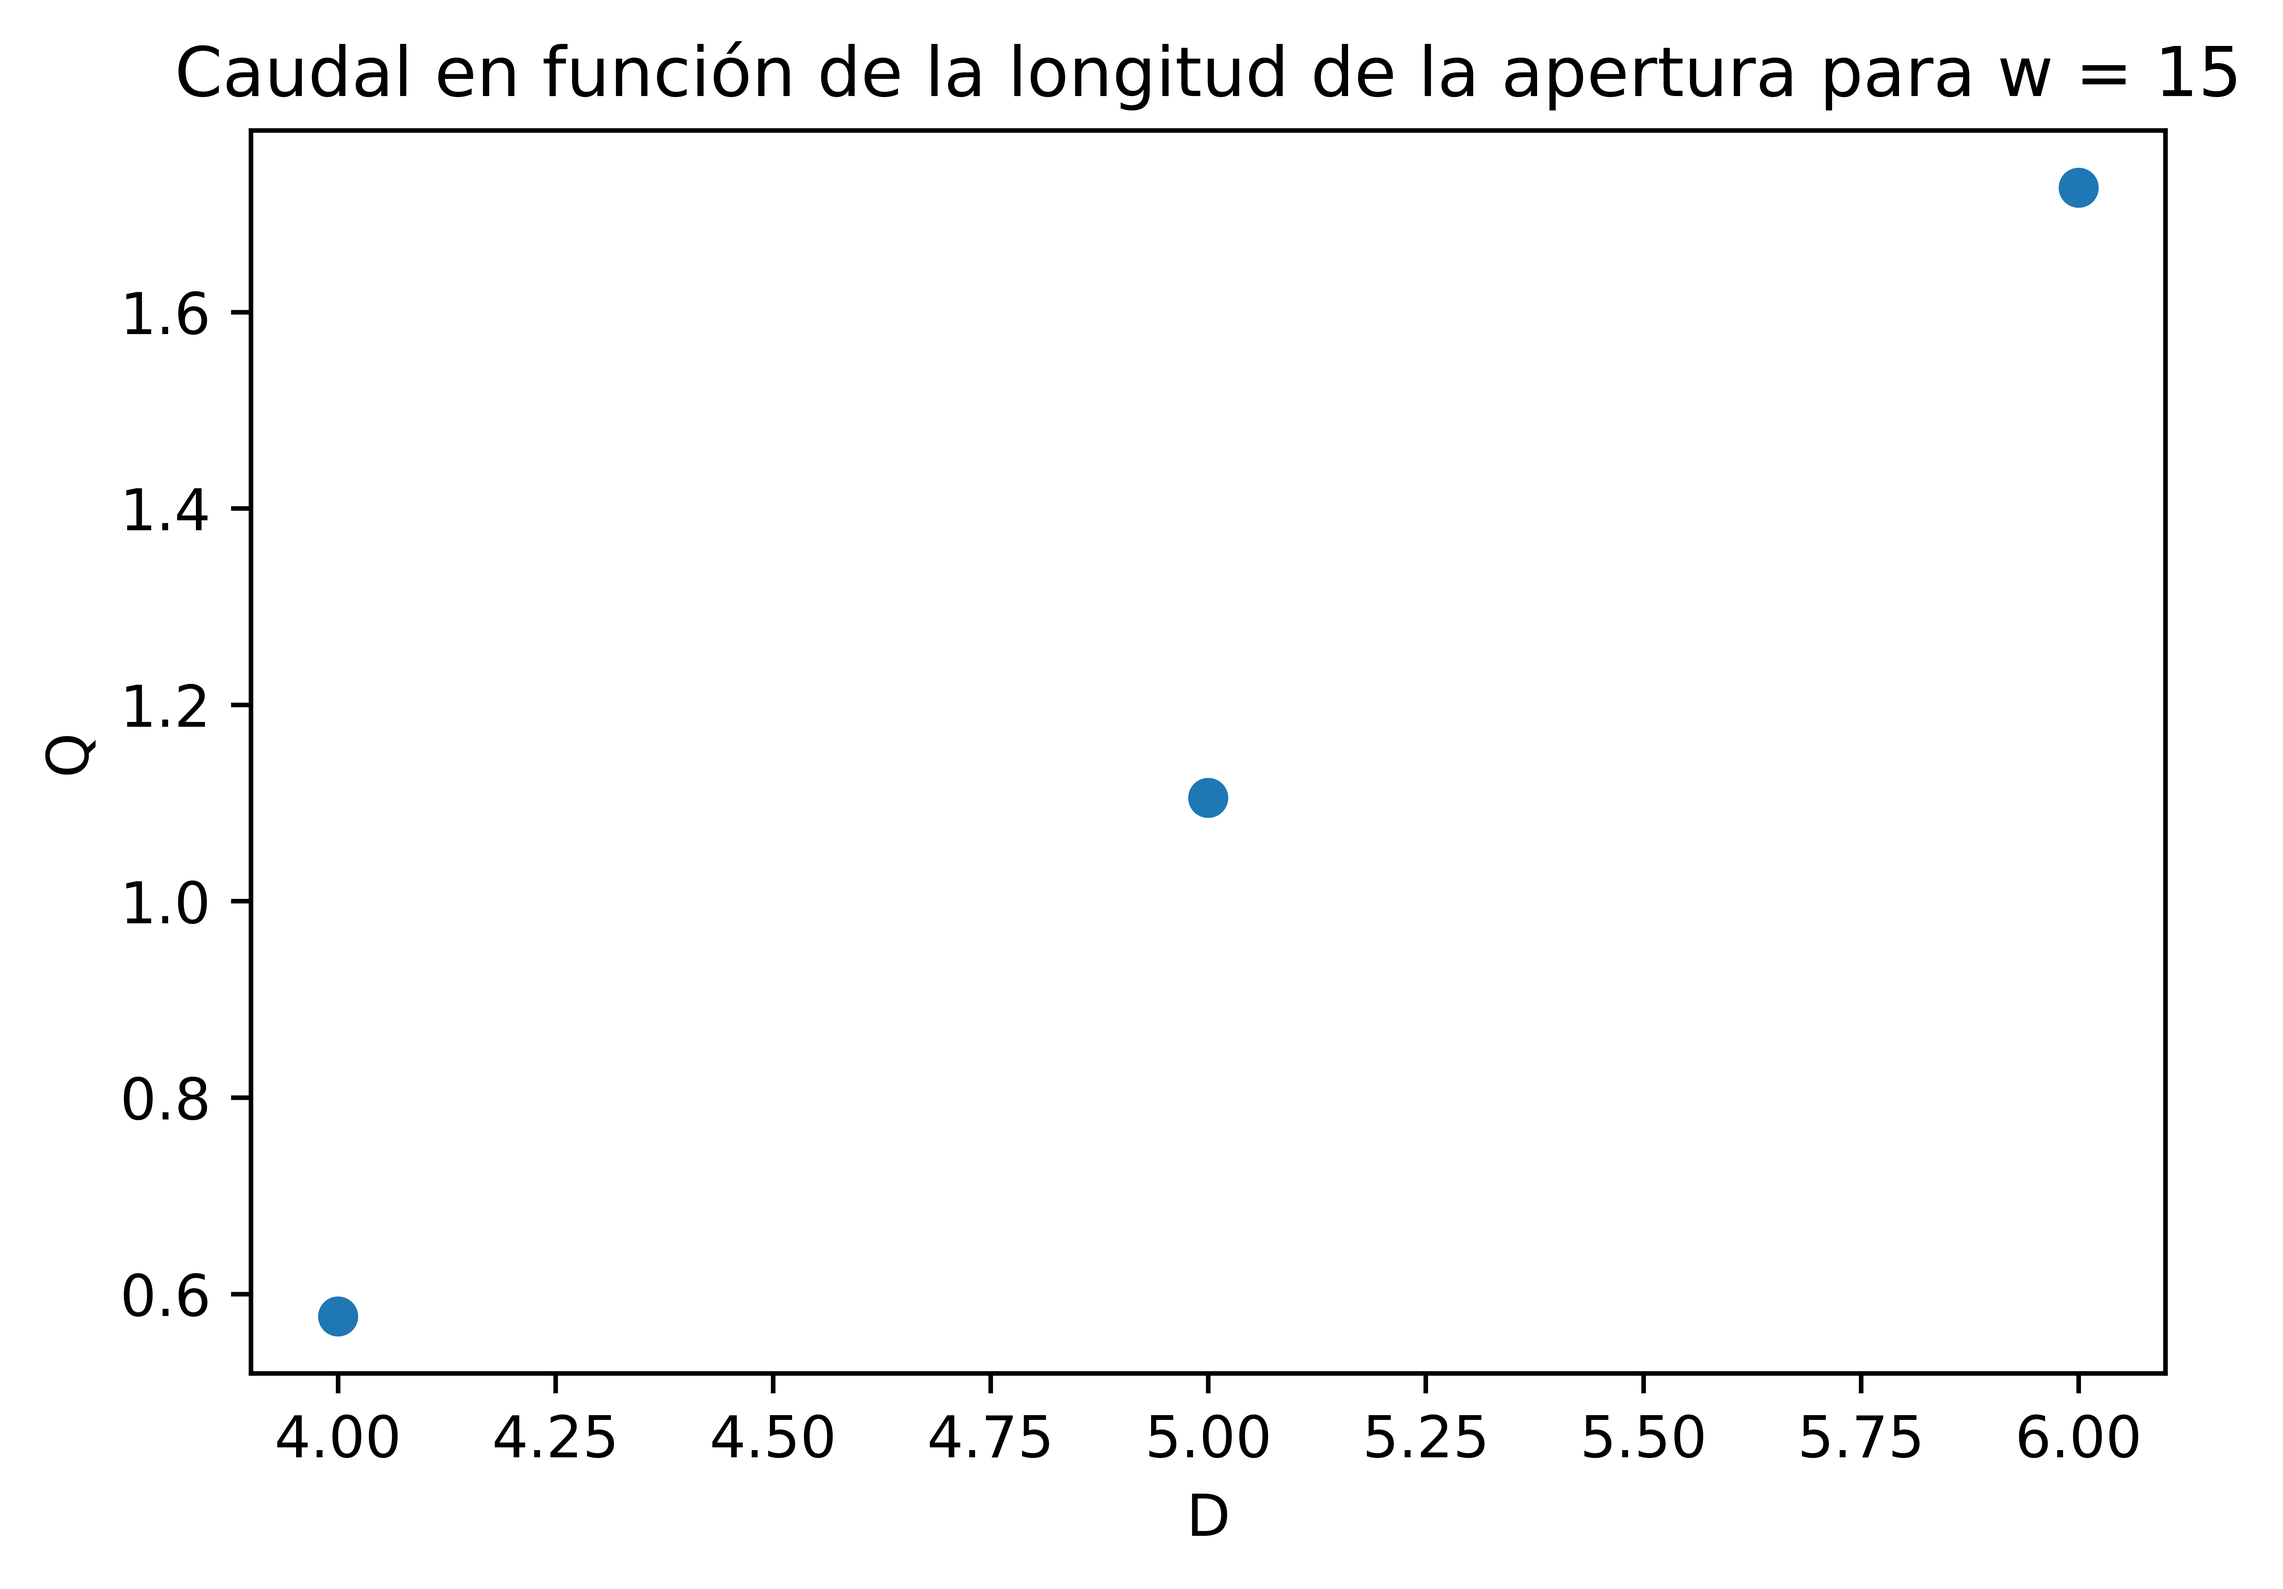
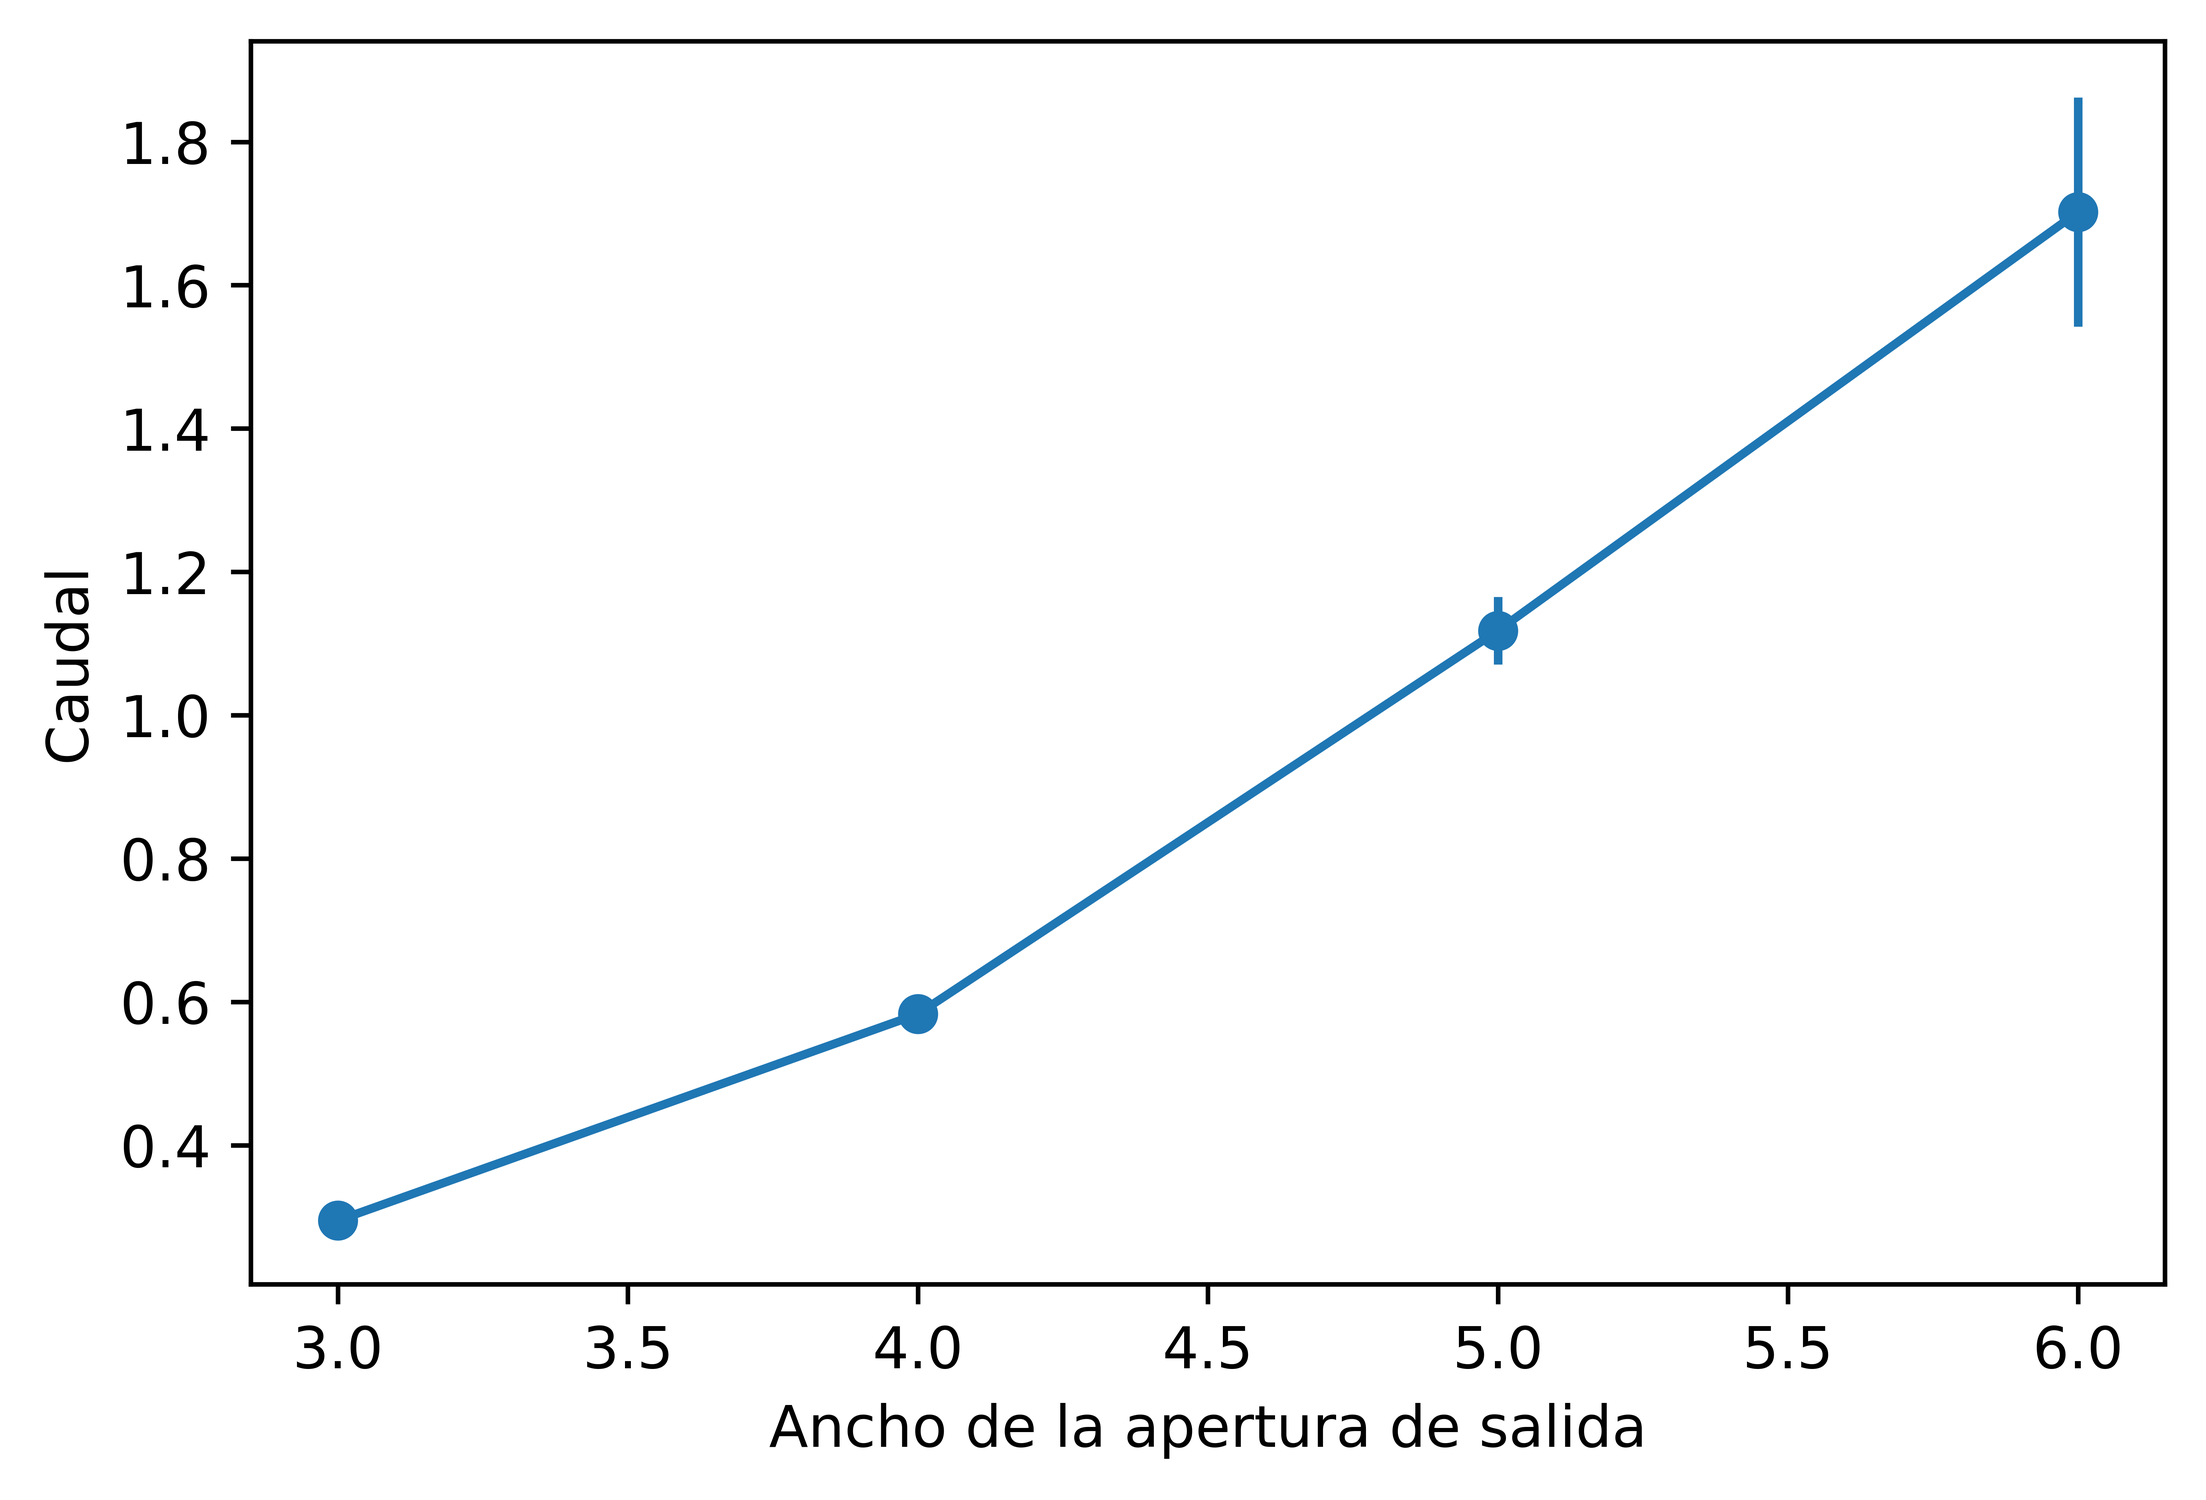
punto b

diff --git a/TP5/plotters/plotters.py b/TP5/plotters/plotters.py
@@ -132,7 +132,7 @@ def plot_exiting_particles_vs_t(plt, timestamps, t_est, color, label, perform_re
         Q, errs = plot_regression(timestamps, accumulated_values, t_est, color)
 
         return Q, errs
-    
+
     return None
     """
     LO CAMBIE POR REGRESION
@@ -192,7 +192,7 @@ def plot_q_vs_w(q: list[float], q_errors: list[float], w: list[int], save_to: st
 
 
 # q = [...], d = [4, 5, 6]
-def plot_q_vs_d(q: list[float], q_errors: list[float], D: list[int], w: int, save_to: str):
+def plot_q_vs_d(q: list[float], q_errors: list[float], D: list[int], w: int, save_to: str, join_points: bool = False):
     # TODO: unhardcode
     #D = [4, 5, 6]
     #q = [20, 18, 16]
@@ -205,11 +205,15 @@ def plot_q_vs_d(q: list[float], q_errors: list[float], D: list[int], w: int, sav
     # plt.legend()
 
     # TODO: quitar si vamos a hacer todos los puntos de distintos colores
-    plt.errorbar(D, q, yerr=q_errors, fmt='o')
+    #plt.errorbar(D, q, yerr=q_errors, fmt='o')
+    if join_points:
+        plt.errorbar(D, q, yerr=q_errors, fmt='o', linestyle="-")
+    else:
+        plt.errorbar(D, q, yerr=q_errors, fmt='o')
 
-    plt.xlabel('D')
-    plt.ylabel('Q')
-    plt.title('Caudal en función de la longitud de la apertura para w = ' + str(w))
+    plt.xlabel('Ancho de la apertura de salida')
+    plt.ylabel('Caudal')
+    #plt.title('Caudal en función de la longitud de la apertura para w = ' + str(w))
 
     plt.savefig(save_to, bbox_inches='tight', dpi=1200, facecolor='white')
     #plt.show()
